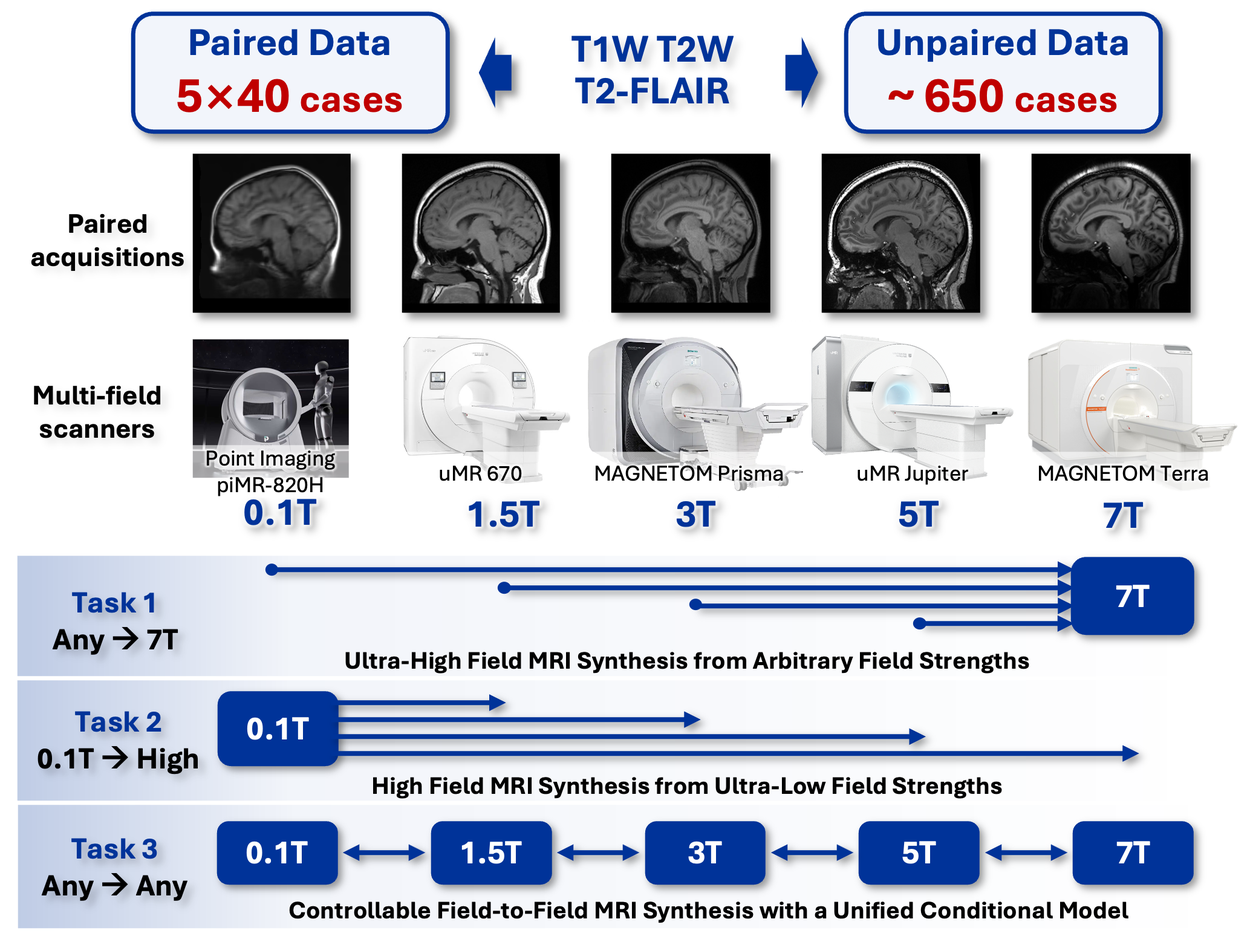
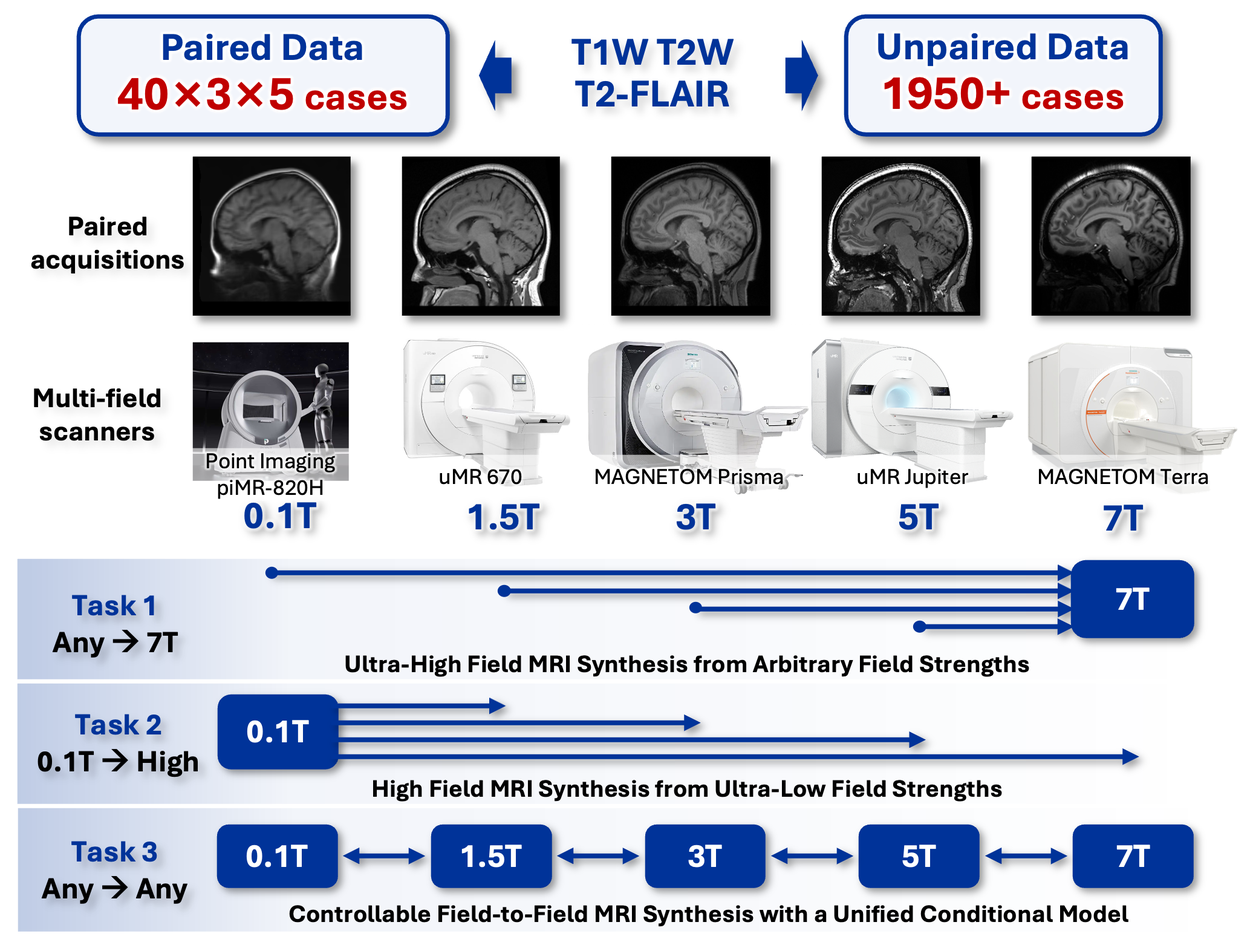
Update MRIxFields2026 website content (#15)
* WIP: local updates

* Finalize MRIxFields2026 content updates

* WIP: local homepage updates before syncing upstream

* WIP: local updates before syncing upstream

* chore: remove leader email

* chore: remove text

* Refine MRIxFields2026 content updates

---------

diff --git a/pages/mrixfields-2026/data.md b/pages/mrixfields-2026/data.md
@@ -12,81 +12,74 @@ title: Data
 </center>
 
 ## Data sources
-MRIxFields2026 provides a large-scale multi-field MRI dataset spanning 0.1T to 7T, integrating unpaired multi-center cohorts with prospectively acquired travelling-volunteer paired data.
+MRIxFields2026 provides a large-scale multi-field MRI dataset spanning 0.1T to 7T, integrating unpaired multi-center cohorts with prospectively acquired travelling-volunteer paired data. 
 
 💾 **Data Overview: Scale & Diversity**
 
 - **Total Volume:**  
-  - Total Volume: The dataset comprises approximately unpaired ~ 650 retrospective cases for each modality (average, scanned at all 5 field strengths ) and 40 prospectively acquired travelling-volunteer cases (paired, scanned at all 5 field strengths), yielding 200 cross-field paired scans for each modality.
+  - Total Volume: The dataset comprises approximately 2500+ retrospective unpaired cases (5 fields; 3 modalities ) and 600 paired cases (40 paired volunteers×5 fields×3 modalities).
 
-- **Multi-field structural brain MRI data featuring:5 Field Strengths: 0.1T, 1.5T, 3T, 5T, 7T systems.**  
-  - 3 Modalities: 3D T1-Weighted (T1W), 2D/3D T2-Weighted (T2W), 2D/3D T2-FLAIR.
+- **○Multi-field structural brain MRI data featuring:5 Field Strengths: 0.1T, 1.5T, 3T, 5T, 7T systems.**  
+  - 3 Modalities: 3D T1-Weighted (T1W), 2D/3D T2-Weighted (T2W), 2D/3D T2 FLAIR.(For 2D data, we utilize a pre-trained super-resolution network to reconstruct 3D volumes from 2D inputs.)
   - 3 Manufacturers: Siemens Healthineers, United Imaging Healthcare, Point Imaging. 
 
 | Field Strength | Prospective T1w (paired) | Prospective T2w (paired) | Prospective T2 FLAIR (paired) | Retrospective T1w (unpaired) | Retrospective T2w (unpaired) | Retrospective T2 FLAIR (unpaired) | Scanners | Manufacturer |
-|---|---:|---:|---:|-----------------------------:|-----------------------------:|----------------------------------:|---|---|
-| 0.1T | 40 (3D) | 40 (3D) | 40 (3D) |                     100 (3D) |                     100 (3D) |                           99 (2D) | piMR-820H | Point Imaging |
-| 1.5T | 40 (3D) | 40 (3D) | 40 (3D) |                     104 (3D) |                     221 (2D) |                          221 (2D) | uMR 670 | United Imaging Healthcare |
-| 3T | 40 (3D) | 40 (3D) | 40 (3D) |                     143 (3D) |                     142 (3D) |                          143 (2D) | MAGNETOM Prisma | Siemens Healthineers |
-| 5T | 40 (3D) | 40 (3D) | 40 (3D) |                     121 (3D) |                      43 (3D) |                          102 (2D) | uMR Jupiter | United Imaging Healthcare |
-| 7T | 40 (3D) | 40 (3D) | 40 (3D) |                     235 (3D) |                      81 (3D) |                           84 (2D) | MAGNETOM Terra | Siemens Healthineers |
-
+|---|---:|---:|---:|---:|---:|---:|---|---|
+| 0.1T | 40 (3D) | 40 (3D) | 40 (2D) | 100 (3D) | 100 (3D) | 99 (2D) | piMR-820H | Point Imaging |
+| 1.5T | 40 (3D) | 40 (3D) | 40 (2D) | 104 (3D) | 221 (2D) | 221 (2D) | uMR 670 | United Imaging Healthcare |
+| 3T | 40 (3D) | 40 (3D) | 40 (2D) | 143 (3D) | 142 (3D) | 143 (2D) | MAGNETOM Prisma | Siemens Healthineers |
+| 5T | 40 (3D) | 40 (3D) | 40 (2D) | 121 (3D) | 43 (3D) | 102 (2D) | uMR Jupiter | United Imaging Healthcare |
+| 7T | 40 (3D) | 40 (3D) | 40 (2D) | 235 (3D) | 81 (3D) | 84 (2D) | MAGNETOM Terra | Siemens Healthineers |
 
 📊 **Dataset seperation: Training, Validation, and Testing**
 
 ### Overall Split
 
-- Training set: About 665 cases for each modality (average), consisting of the retrospective unpaired cohort together with paired data from 10 travelling volunteers × 5 field strengths
-- Validation set: 85 cases, corresponding to 17 volunteers × 5 field strengths
-- Test set: 100 cases, corresponding to 20 held-out volunteers × 5 field strengths
+- Training set: 1945+ cases (T1W, T2W, T2 FLAIR), consisting of the 1900+ retrospective unpaired cases together with 45 paired cases (3 paired volunteers× 5 fields×3 modalities)
+- Validation set: 255 cases, corresponding to 17 volunteers × 5 fields × 3 modalities
+- Test set: 300 cases, corresponding to 20 held-out volunteers × 5 fields × 3 modalities
 
 The precise role of each split varies across tasks, depending on whether the task is driven primarily by unpaired learning, paired target-domain supervision, or controllable conditional generation.
 
 
 ### Task 1: Ultra-High-Field MRI Synthesis from Arbitrary Input Field Strengths
 
-- **Training Set (N ≈ 665 for each modality in average)**  
-  - The training set consists primarily of the retrospective unpaired cohort **(N ≈ 650 cases)**, supplemented with paired data from **3 travelling volunteers (N = 15 cases).**
+- **Training Set (1945+ cases)**  
+  - The training set consists 1900+ retrospective unpaired cases, supplemented with 45 paired cases (3 paired volunteers× 5 fields×3 modalities).
 
-  This yields a total of more than **665 training cases**, covering all five field strengths and multiple structural contrasts.
+- **Validation Set (255 cases):**  
+  - The validation set consists of 17 travelling volunteers scanned across five field strengths and 3 modalities (17 × 5 × 3 =255 cases).
 
-- **Validation Set (N = 85 for each modality in average):**  
-  - The validation set consists of **17 travelling volunteers scanned across five field strengths (17 × 5 = 85 cases).**
+  These paired data enable controlled within-case validation against corresponding 7T targets.
 
-  These paired data enable controlled within-subject validation against corresponding 7T targets.
-
-- **Test Set (N = 100 for each modality in average):**  
-  - The test set includes **20 held-out travelling volunteers scanned across five field strengths (20 × 5 = 100 cases).**
+- **Test Set (300 cases):**  
+  - The test set includes 20 held-out travelling volunteers scanned across five field strengths and 3 modalities (20 × 5 × 3 = 300 cases).
 
   Paired 7T references are withheld and used exclusively for final evaluation.
 
 ### Task 2: Higher-Field MRI Generation from Ultra-Low-Field MRI
 
-- **Training Set (N ≈ 665 for each modality in average)**  
-  - The training set includes all retrospective unpaired data **(N ≈ 650 cases)**, with emphasis on **0.1T inputs**, and paired data from **3 travelling volunteers (N = 15 cases).**
+- **Training Set (1945+ cases)**  
+  - The training set consists 1900+ retrospective unpaired cases, supplemented with 45 paired cases (3 paired volunteers× 5 fields×3 modalities).
 
-  In total, the training set contains about **665 cases**, spanning ultra-low-field to higher-field domains.
+- **Validation Set (255 cases):**  
+  - The validation set consists of 17 travelling volunteers (17 × 5 × 3 =255 cases), including paired 0.1T and higher-field scans with 3 modalities for within-case evaluation.
 
-- **Validation Set (N = 85 for each modality in average):**  
-  - The validation set consists of **17 travelling volunteers (N = 85 cases)**, including paired **0.1T and higher-field scans** for within-subject evaluation.
-
-- **Test Set (N = 100 for each modality in average):**  
-  - The test set consists of **20 held-out travelling volunteers (N = 100 cases).**
+- **Test Set (300 cases):**  
+  - The test set consists of 20 held-out travelling volunteers (20 × 5 × 3 = 300 cases).
 
   The 0.1T images serve as inputs, while higher-field references are withheld for evaluation.
 
 ### Task 3: Controllable Field-to-Field MRI Synthesis with a Unified Conditional Model
 
-- **Training Set (N ≈ 665 for each modality in average)**  
-  - The training set includes the full retrospective unpaired cohort **(N ≈ 650 cases)** and paired data from **3 travelling volunteers (N = 15 cases).**
+- **Training Set (1945+ cases)**  
+  - The training set consists 1900+ retrospective unpaired cases, supplemented with 45 paired cases (3 paired volunteers× 5 fields×3 modalities).
 
-  This results in about **665 training cases**, covering all field strengths and supporting many-to-many translation learning.
+- **Validation Set (255 cases):**  
+  - The validation set consists of 17 travelling volunteers (N = 255 cases), enabling evaluation across all possible field-to-field translation directions.
 
-- **Validation Set (N = 85 for each modality in average):**  
-  - The validation set consists of **17 travelling volunteers (N = 85 cases)**, enabling evaluation across all possible field-to-field translation directions.
-
-- **Test Set (N = 100 for each modality in average):**  
-  - The test set consists of **20 held-out travelling volunteers (N = 100 cases).**
+- **Test Set (300 cases):**  
+  - The test set consists of 20 held-out travelling volunteers (N = 300 cases).
 
 All target-domain references are withheld and used only for final ranking.
 
@@ -98,25 +91,25 @@ To ensure anatomical consistency across field strengths while preserving realist
 
 #### 1.1 Prospective Travelling-Volunteer Cohort (Paired Data)
 
-For the paired dataset, we adopted a **subject-specific, 3T-anchored registration strategy** to preserve within-subject anatomical correspondence across field strengths while minimizing artificial deformation.
+For the paired dataset, we adopted a case-specific, 3T-anchored registration strategy to preserve within-case anatomical correspondence across field strengths while minimizing artificial deformation.
 
-##### Step 0: Intra-subject multi-contrast alignment
-For each subject, **T2-weighted** and **T2-FLAIR** images were first rigidly registered to the corresponding **T1-weighted** image to ensure within-subject cross-contrast alignment.
+##### Step 0: Intra-case multi-contrast alignment
+For each case, T2W and T2 FLAIR images were first rigidly registered to the corresponding T1W image to ensure within-case cross-contrast alignment.
 
 ##### Step 1: Skull stripping
-Skull stripping was then performed using **HD-BET** on the **T1-weighted** images, and the resulting brain masks were propagated to **T2-weighted** and **T2-FLAIR** images.
+Skull stripping was then performed using HD-BET on the T1W images, and the resulting brain masks were propagated to T2W and T2 FLAIR images.
 
 ##### Step 2: Reference definition
-The skull-stripped **3T T1-weighted** image was rigidly registered to the **MNI152 (0.5 mm, skull-off) template**, establishing a subject-specific reference in standard space.
+The skull-stripped 3T T1W image was rigidly registered to the MNI152 (0.5 mm, skull-off) template, establishing a case-specific reference in standard space.
 
 ##### Step 3: Cross-field alignment
-T1-weighted images from all other field strengths (**0.1T, 1.5T, 5T, and 7T**) were rigidly registered to the **subject-specific 3T T1 image in MNI space**, ensuring consistent global alignment across fields.
+T1W images from all other field strengths (0.1T, 1.5T, 5T, and 7T) were rigidly registered to the case-specific 3T T1W image in MNI space, ensuring consistent global alignment across fields.
 
 ##### Step 4: Nonlinear refinement (optional)
-For cases with residual misalignment, **SyN nonlinear registration (ANTs)** was applied as a refinement step to improve local anatomical correspondence.
+For cases with residual misalignment, SyN nonlinear registration (ANTs) was applied as a refinement step to improve local anatomical correspondence.
 
 ##### Multi-contrast propagation
-The estimated transformations from **T1-weighted** images were propagated to the corresponding **T2-weighted** and **T2-FLAIR** images. When necessary, additional **SyN-based refinement** was applied to these modalities to correct residual mismatch.
+The estimated transformations from T1W images were propagated to the corresponding T2W and T2 FLAIR images. When necessary, additional SyN-based refinement was applied to these modalities to correct residual mismatch.
 
 #### 1.2 Retrospective Multi-Field Cohort (Unpaired Data)
 
@@ -144,7 +137,7 @@ This process ensures high data quality and reliable anatomical alignment across 
 
 ### 5. Data Organization
 
-All processed data are organized according to the **BIDS (Brain Imaging Data Structure)** standard, with consistent metadata across subjects, field strengths, and acquisition sites.
+All processed data are organized according to the **BIDS (Brain Imaging Data Structure)** standard, with consistent metadata across volunteers, field strengths, and acquisition sites.
 
 #### Reference Information
 
@@ -164,7 +157,7 @@ Segmentation was applied uniformly to all images after preprocessing, without ad
 
 ### 2. Structural Feature Extraction
 
-Based on the segmentation outputs, regional structural measures were derived for each subject, including:
+Based on the segmentation outputs, regional structural measures were derived for each case, including:
 
 - Regional brain volumes for deep gray matter structures
 - Bilateral measurements across anatomical regions
@@ -209,37 +202,37 @@ This post-processing step provides anatomically meaningful representations of th
 
 ``` text
 ChallengeData
-├── Training_retrospective/          # Training (unpaired, different subjects)
-│   ├── 3D_T1W/
+├── Training_retrospective/          # Training (unpaired, different volunteers)
+│   ├── T1W/
 │   │   ├── 0.1T/*.nii.gz
 │   │   ├── 1.5T/*.nii.gz
 │   │   ├── 3T/*.nii.gz
 │   │   ├── 5T/*.nii.gz
 │   │   └── 7T/*.nii.gz
-│   ├── 3D_T2W/
+│   ├── T2W/
 │   │   ├── 0.1T/*.nii.gz
 │   │   ├── 1.5T/*.nii.gz
 │   │   ├── 3T/*.nii.gz
 │   │   ├── 5T/*.nii.gz
 │   │   └── 7T/*.nii.gz
-│   └── 3D_T2_Flair/
+│   └── T2FLAIR/
 │       ├── 0.1T/*.nii.gz
 │       ├── 1.5T/*.nii.gz
 │       ├── 3T/*.nii.gz
 │       ├── 5T/*.nii.gz
 │       └── 7T/*.nii.gz
 ├── Training_prospective/            # Training (paired, travelling volunteers)
-│   ├── 3D_T1W/ {0.1T, 1.5T, 3T, 5T, 7T}
-│   ├── 3D_T2W/
-│   └── 3D_T2_Flair/
+│   ├── T1W/ {0.1T, 1.5T, 3T, 5T, 7T}
+│   ├── T2W/
+│   └── T2FLAIR/
 ├── Validating_prospective/          # Validation (paired)
-│   ├── 3D_T1W/{0.1T, 1.5T, 3T, 5T, 7T}
-│   ├── 3D_T2W/
-│   └── 3D_T2_Flair/
+│   ├── T1W/{0.1T, 1.5T, 3T, 5T, 7T}
+│   ├── T2W/
+│   └── T2FLAIR/
 └── Testing_prospective/             # Test (paired)
-    ├── 3D_T1W/{0.1T, 1.5T, 3T, 5T, 7T}
-    ├── 3D_T2W/
-    └── 3D_T2_Flair/
+    ├── T1W/{0.1T, 1.5T, 3T, 5T, 7T}
+    ├── T2W/
+    └── T2FLAIR/
 ```
 
 For each individual NIfTI file, our naming convention is “field strength_ID”, for example, “5T_002”. Please note that the same ID corresponds to the same subject, while different IDs correspond to different subjects. Therefore, if you plan to use multi-contrast data for training, you will need to match the IDs accordingly.

diff --git a/pages/mrixfields-2026/tasks.md b/pages/mrixfields-2026/tasks.md
@@ -10,7 +10,7 @@ The MRIxFields2026 challenge includes three complementary tasks. The tasks are e
 For each task, participants must submit their models separately as containerized inference pipelines via Docker images. Participants are allowed to make up to 3 formal submissions per task, and only the last run is officially counted to rank the results.
 
 
-Please note that for all three tasks, the provided datasets are identical: consisting of about 650 unpaired for each modality (average) and 3 paired volunteers (15 cases) for training, 17 paired volunteers (85 cases) for validation, and 20 paired volunteers (100 cases) for testing. However, the evaluation reference targets will vary depending on the specific task (e.g., using a fixed 7T reference for Task 1, versus dynamic field-conditioned targets for Task 3).
+Please note that for all three tasks, the provided datasets are identical: consisting of about 1900+ unpaired cases (T1W, T2W, T2 FLAIR) and 45 paired cases (3 paired volunteers × 5 fields × 3 modalities) for training, 255 paired cases (17 paired volunteers × 5 fields × 3 modalities)  for validation, and 300 paired cases (20 paired volunteers × 5 fields × 3 modalities) for testing. However, the evaluation reference targets will vary depending on the specific task (e.g., using a fixed 7T reference for Task 1, versus dynamic field-conditioned targets for Task 3).
 
 <center>
   <img src="/tasks/3tasks.png" alt="Awards Overview" width="100%" style="max-width: 1100px; height: auto; margin-bottom: 20px;">
@@ -141,7 +141,7 @@ The schedule of the challenge is as follows. All deadlines are Pacific Standard 
     <strong>[May. 10, 2026]</strong> Submission system opens for validation
   </div>
   <div style="padding: 10px 14px; background-color: #ffffff;">
-    <strong>[Aug. 01, 2026]</strong> Submission system opens for testing
+    <strong>[Jul. 01, 2026]</strong> Submission system opens for testing
   </div>
   <div style="padding: 10px 14px; background-color: #f5f7fa;">
     <strong>[Sept. 10, 2026]</strong> Registration and docker submission deadline
@@ -168,10 +168,19 @@ The schedule of the challenge is as follows. All deadlines are Pacific Standard 
 
 6. Any publicly available datasets can be used for training. However, participants are not allowed to use their own private data to ensure the fairness of this challenge. Data augmentation based on the training dataset is allowed. No manual interventions, such as manual annotation of cases, are allowed.
 
-7. For Task 1 and Task 2, participants may design separate models for different input field strengths (4 input field strengths) and different image contrasts (T1w, T2w, T2-FLAIR) to address field-dependent variations in noise, resolution, and contrast behavior. That is, you may provide 12 separate models for image generation. However, for Task 3, participants must utilize a single unified conditional model to enable dynamic image generation conditioned on desired target field parameters. You may use a prompt-based mechanism, but only one set of pretrained parameters is allowed to be stored for Task 3. If a participating team submits multiple models for Task 3, the submission will be disqualified and no score will be counted.
+7. For Task 1 and Task 2, participants may design separate models for different input field strengths (4 input field strengths) and different image contrasts (T1W, T2W, T2 FLAIR) to address field-dependent variations in noise, resolution, and contrast behavior. That is, you may provide 12 separate models for image generation. However, for Task 3, participants must utilize a single unified conditional model to enable dynamic image generation conditioned on desired target field parameters. You may use a prompt-based mechanism, but only one set of pretrained parameters is allowed to be stored for Task 3. If a participating team submits multiple models for Task 3, the submission will be disqualified and no score will be counted.
 
-8. Participants may choose to use a single contrast (e.g., T1w) as input for model inference, or multiple contrasts (e.g., T1w + T2w + T2-FLAIR). The outputs can be either multi-contrast or single-contrast. We do not impose any restrictions on how participants use the provided data. However, please note that in the retrospective dataset, not every case includes all contrasts (T1w + T2w + T2-FLAIR). For matching across contrasts, please refer to the following: for each individual NIfTI file, our naming convention is "field strength_ID", for example, "5T_002". Please note that the same ID corresponds to the same subject, while different IDs correspond to different subjects. Therefore, if you intend to use multi-contrast data for training, you will need to match the IDs accordingly. For retrospective data (from different subjects), we only performed rigid registration. If you are not satisfied with the cross-contrast alignment, you may perform your own registration. For prospective data (from the same subject), we applied deformable registration to achieve better spatial consistency across field strengths and contrasts.
+8. Participants may choose to use a single contrast (e.g., T1W) as input for model inference, or multiple contrasts (e.g., T1W + T2W + T2 FLAIR). The outputs can be either multi-contrast or single-contrast. We do not impose any restrictions on how participants use the provided data. However, please note that in the retrospective dataset, not every case includes all contrasts (T1W + T2W + T2 FLAIR).
 
+   For matching across contrasts, please refer to the following:
+
+   Retrospective data uses global sequential IDs from 0001 to 1056. Each field strength occupies a distinct ID range: 0.1T corresponds to 0001–0100 (100 volunteers), 1.5T to 0101–0328 (228 volunteers), 3T to 0329–0471 (143 volunteers), 5T to 0472–0737 (266 volunteers), and 7T to 0738–1056 (319 volunteers). Since each subject was scanned at only one field strength, data across different field strengths are unpaired.
+
+   Prospective data uses IDs from 0001 to 0040. The same ID across all field strengths corresponds to the same volunteers. For example, P_T1W_0.1T_0006.nii.gz and P_T1W_7T_0006.nii.gz are from the same person scanned at 0.1T and 7T respectively. This enables paired training and evaluation across field strengths.
+
+   For retrospective data (from different volunteers), we only performed rigid registration. If you are not satisfied with the cross-contrast alignment, you may perform your own registration.
+
+   For prospective data (from the same volunteers), we applied deformable registration to achieve better spatial consistency across field strengths and contrasts.
 9. During the validation phase, to ensure efficiency in image segmentation, participants are required to perform segmentation locally and upload the segmentation results along with their submissions to the validation platform. During the test phase, participants only need to submit their inference Docker container, and we will perform standardized segmentation and evaluation.
 
 10. During the validation phase, each team is allowed to submit up to three times per day per task. In the test phase, each team can submit up to five Docker containers per task in total. The final ranking will be based on the results of the last submission.

diff --git a/pages/mrixfields-2026/index.md b/pages/mrixfields-2026/index.md
@@ -10,7 +10,7 @@ features:
   - title: Unified Generative Modeling 
     details: A structured valuation protocol defining three complementary tasks. 7T-equivalent synthesis, ultra-low-field enhancement, and controllable any-to-any field-conditioned transformation.
   - title: Comprehensive Multi-Field Dataset 
-    details: About 850 multi-center scans spanning 0.1T–7T, including 500 unpaired subjects and 200 (5 scanners) prospectively acquired travelling-volunteer paired scans for anatomically grounded cross-field evaluation.
+    details: 2500+ MRI multi-center cases spanning 0.1T–7T (T1W, T2W, T2 FLAIR), including 1900+ unpaired cases (1056 volunteers) and 600 paired cases (40 paired volunteers ×5 fields ×3 modalities) acquired travelling-volunteer paired scans for anatomically grounded cross-field evaluation. 
   - title: Cross-Field MRI Harmonization
     details: Addressing field-strength heterogeneity as a structured full-spectrum benchmark (0.1T–7T) for principled cross-domain generalization and representation consistency. 
 
@@ -79,12 +79,12 @@ While MRI is a central tool for neuroscience research and clinical assessment, t
 | Imaging Modality | Structural MRI                                                                                                     |
 | Sequences / Contrasts | 3D T1-weighted, 2D/3D T2-weighted, 2D/3D T2-FLAIR                                                                  |
 | Data Composition | Unpaired multi-field cohorts + travelling-volunteer paired cross-field cohort                                      |
-| Total Cases | ~ 850 cases / modality (average)                                                                                   |
-| Unpaired Cohort | ~ 650 cases / modality (average)                                                                                   |
-| Paired Cohort | 200 cases / modality (40 voluneers × 5 field strengths)                                                            |
-| Training Set | ~ 665 cases / modality (average; unpaired cohort + 3 paired subjects × 5 field strenghts)                          |
-| Validation Set | 85 cases / modality (17 volunteers × 5 field strengths)                                                            |
-| Test Set | 100 cases / modality (20 held-out volunteers × 5 field strengths)                                                  |
+| Total Cases | 2500+ cases                                                                                                        |
+| Unpaired Cohort | 1900+ cases                                                                                                        |
+| Paired Cohort | 600 cases (40 paired voluneers × 5 field  × 3 modalities)                                                          |
+| Training Set | 1945+ cases (1900+ unpaired cases + 3 paired volunteers × 5 field × 3 modalities)                                  |
+| Validation Set | 255 cases (17 volunteers × 5 field strengths × 3 modalities)                                                       |
+| Test Set | 300 cases (20 held-out volunteers × 5 field strengths × 3 modalities)                                                            |
 | Case Definition | One case is defined as a complete scan of a single subject acquired on one MRI system at a specific field strength |
 | Paired Information | The travelling-volunteer cohort consists of the same subjects scanned across all five field strengths              |
 | Primary Applications | Cross-field MRI synthesis, ultra-low-field enhancement, controllable field-to-field translation                    |
@@ -92,7 +92,7 @@ While MRI is a central tool for neuroscience research and clinical assessment, t
 | Evaluation Metrics | nRMSE, SSIM, LPIPS, Dice, normalized volume consistency                                                            |
 | Scanners | 0.1T: piMR-820H; 1.5T: uMR 670; 3T: MAGNETOM Prisma; 5T: uMR Jupiter; 7T: MAGNETOM Terra                           |
 
-To bridge the gap between heterogeneous clinical acquisitions and high-fidelity neuroscience research, the MRIxFields2026 challenge utilizes about 850 cases spanning 5 magnetic field strengths (0.1T to 7T) for each modality (average) to evaluate generative models across three specific tasks:
+To bridge the gap between heterogeneous clinical acquisitions and high-fidelity neuroscience research, the MRIxFields2026 challenge utilizes 2500+ cases spanning 5 magnetic field strengths (0.1T to 7T) for 3 modalities to evaluate generative models across three specific tasks:
 
 
 1. **Task 1: Ultra-High Field MRI Synthesis from Arbitrary Magnetic Field Strengths** – Targets the generation of high-field-equivalent MRI from arbitrary input field strengths, enabling models to recover fine anatomical details and quantitative properties associated with 7T imaging.
@@ -130,7 +130,7 @@ The schedule of the challenge is as follows. All deadlines are Pacific Standard 
     <strong>[May. 10, 2026]</strong> Submission system opens for validation
   </div>
   <div style="padding: 10px 14px; background-color: #ffffff;">
-    <strong>[Aug. 01, 2026]</strong> Submission system opens for testing
+    <strong>[Jul. 01, 2026]</strong> Submission system opens for testing
   </div>
   <div style="padding: 10px 14px; background-color: #f5f7fa;">
     <strong>[Sept. 10, 2026]</strong> Registration and docker submission deadline

diff --git a/pages/mrixfields-2026/faq.md b/pages/mrixfields-2026/faq.md
@@ -85,10 +85,19 @@ Yes, participants are free to join any single task. Of course, they are also wel
 
 6. Any publicly available datasets can be used for training. However, participants are not allowed to use their own private data to ensure the fairness of this challenge. Data augmentation based on the training dataset is allowed. No manual interventions, such as manual annotation of cases, are allowed.
 
-7. For Task 1 and Task 2, participants may design separate models for different input field strengths (4 input field strengths) and different image contrasts (T1w, T2w, T2-FLAIR) to address field-dependent variations in noise, resolution, and contrast behavior. That is, you may provide 12 separate models for image generation. However, for Task 3, participants must utilize a single unified conditional model to enable dynamic image generation conditioned on desired target field parameters. You may use a prompt-based mechanism, but only one set of pretrained parameters is allowed to be stored for Task 3. If a participating team submits multiple models for Task 3, the submission will be disqualified and no score will be counted.
+7. For Task 1 and Task 2, participants may design separate models for different input field strengths (4 input field strengths) and different image contrasts (T1W, T2W, T2 FLAIR) to address field-dependent variations in noise, resolution, and contrast behavior. That is, you may provide 12 separate models for image generation. However, for Task 3, participants must utilize a single unified conditional model to enable dynamic image generation conditioned on desired target field parameters. You may use a prompt-based mechanism, but only one set of pretrained parameters is allowed to be stored for Task 3. If a participating team submits multiple models for Task 3, the submission will be disqualified and no score will be counted.
 
-8. Participants may choose to use a single contrast (e.g., T1w) as input for model inference, or multiple contrasts (e.g., T1w + T2w + T2-FLAIR). The outputs can be either multi-contrast or single-contrast. We do not impose any restrictions on how participants use the provided data. However, please note that in the retrospective dataset, not every case includes all contrasts (T1w + T2w + T2-FLAIR). For matching across contrasts, please refer to the following: for each individual NIfTI file, our naming convention is "field strength_ID", for example, "5T_002". Please note that the same ID corresponds to the same subject, while different IDs correspond to different subjects. Therefore, if you intend to use multi-contrast data for training, you will need to match the IDs accordingly. For retrospective data (from different subjects), we only performed rigid registration. If you are not satisfied with the cross-contrast alignment, you may perform your own registration. For prospective data (from the same subject), we applied deformable registration to achieve better spatial consistency across field strengths and contrasts.
+8. Participants may choose to use a single contrast (e.g., T1W) as input for model inference, or multiple contrasts (e.g., T1W + T2W + T2 FLAIR). The outputs can be either multi-contrast or single-contrast. We do not impose any restrictions on how participants use the provided data. However, please note that in the retrospective dataset, not every case includes all contrasts (T1W + T2W + T2 FLAIR).
 
+   For matching across contrasts, please refer to the following:
+
+   Retrospective data uses global sequential IDs from 0001 to 1056. Each field strength occupies a distinct ID range: 0.1T corresponds to 0001–0100 (100 volunteers), 1.5T to 0101–0328 (228 volunteers), 3T to 0329–0471 (143 volunteers), 5T to 0472–0737 (266 volunteers), and 7T to 0738–1056 (319 volunteers). Since each subject was scanned at only one field strength, data across different field strengths are unpaired.
+
+   Prospective data uses IDs from 0001 to 0040. The same ID across all field strengths corresponds to the same volunteers. For example, P_T1W_0.1T_0006.nii.gz and P_T1W_7T_0006.nii.gz are from the same person scanned at 0.1T and 7T respectively. This enables paired training and evaluation across field strengths.
+
+   For retrospective data (from different volunteers), we only performed rigid registration. If you are not satisfied with the cross-contrast alignment, you may perform your own registration.
+
+   For prospective data (from the same volunteers), we applied deformable registration to achieve better spatial consistency across field strengths and contrasts.
 9. During the validation phase, to ensure efficiency in image segmentation, participants are required to perform segmentation locally and upload the segmentation results along with their submissions to the validation platform. During the test phase, participants only need to submit their inference Docker container, and we will perform standardized segmentation and evaluation.
 
 10. During the validation phase, each team is allowed to submit up to three times per day per task. In the test phase, each team can submit up to five Docker containers per task in total. The final ranking will be based on the results of the last submission.
